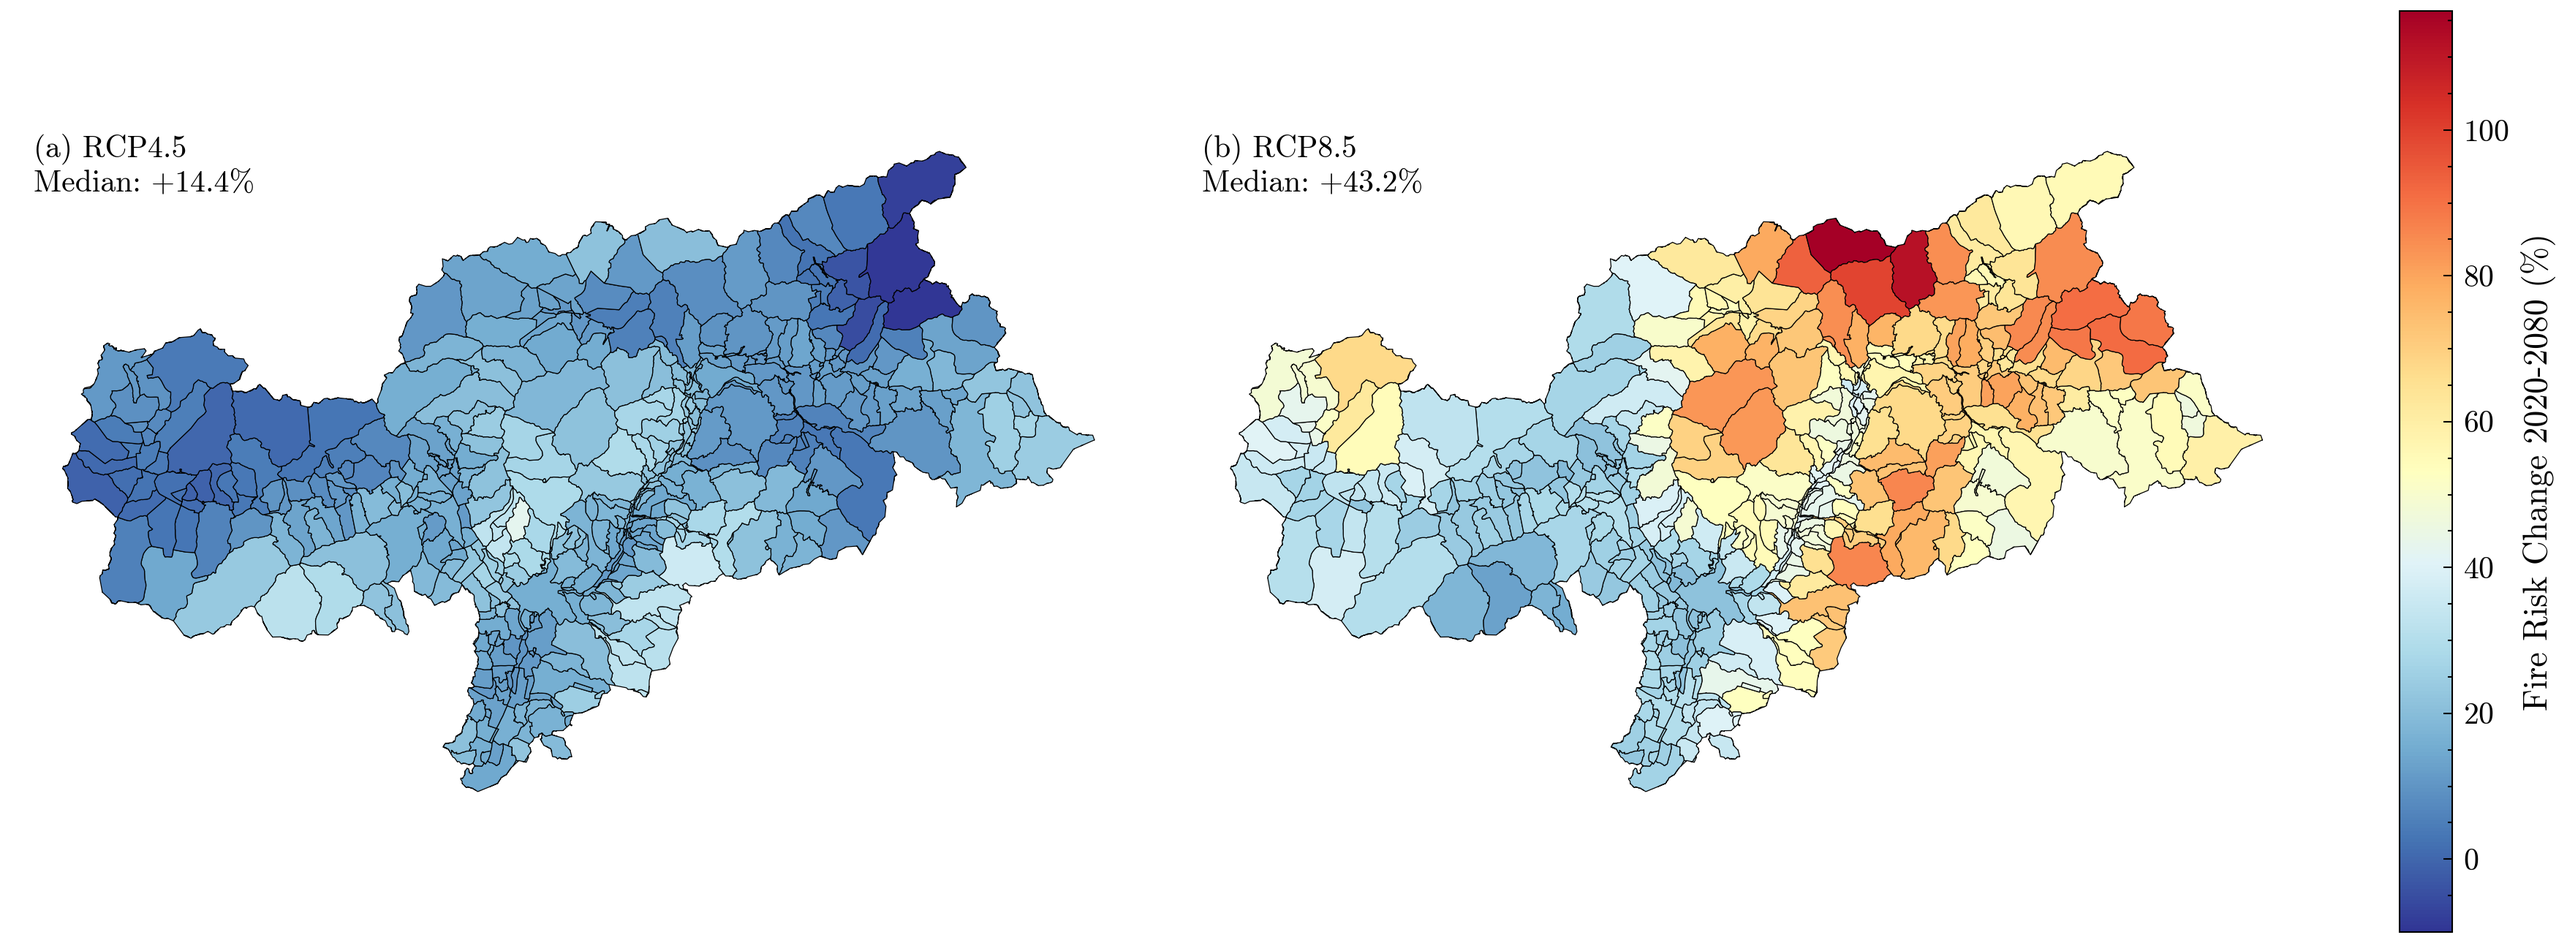
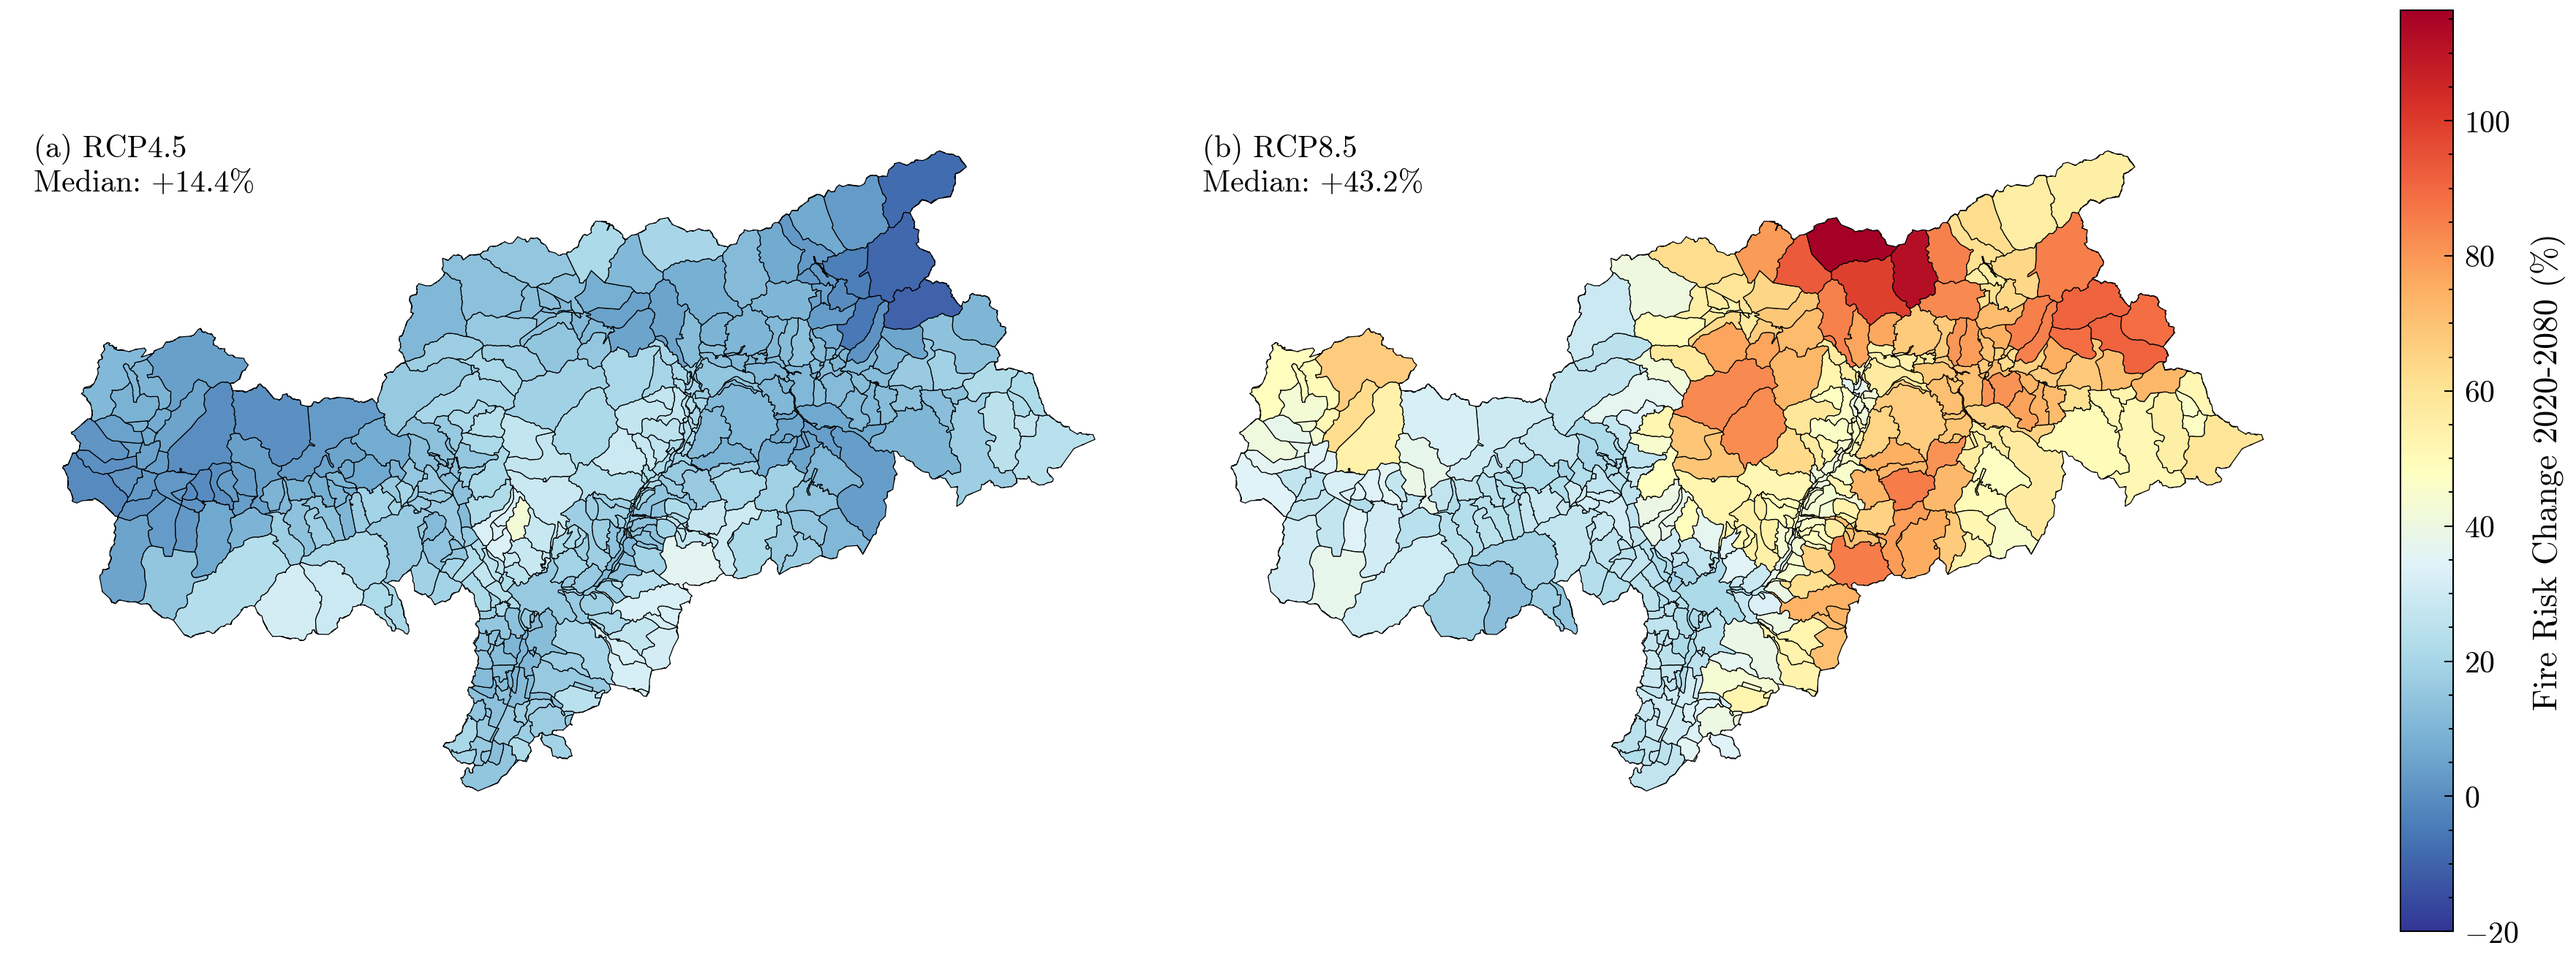
Allow negative values in climate risk change visualization
Updated color scale to properly display zones with decreasing fire risk.

Changes:
- Extended vmin from -10 to -20 (min(−20, data.min()))
- This allows proper visualization of 9 zones with negative risk changes
- Color scale now shows: -20% (dark blue) → 0% (white) → 116% (dark red)
- Fixed median label to handle negative values (removed hardcoded '+' sign)

Results:
- Zones with risk decreases now visible in blue (southwestern areas)
- Most zones show increases (blue → yellow → red gradient)
- Full range of climate impacts now represented
- Data min: -9.94%, max: +116.3%

The RdYlBu_r colormap properly shows:
- Blue: Risk decrease (cooling effect)
- White/Yellow: Minimal change
- Red: Risk increase (warming effect)

diff --git a/04_Zone_Climate_Projections/create_final_climate_figures.py b/04_Zone_Climate_Projections/create_final_climate_figures.py
@@ -409,6 +409,10 @@ for idx, scenario in enumerate(['RCP4.5', 'RCP8.5']):
         how='left'
     )
 
+    # Calculate symmetric scale or use data range
+    vmin_val = min(-20, df_delta['risk_change_pct'].min())
+    vmax_val = max(50, df_delta['risk_change_pct'].max())
+
     zones_plot.plot(
         column='risk_change_pct',
         ax=ax,
@@ -416,15 +420,16 @@ for idx, scenario in enumerate(['RCP4.5', 'RCP8.5']):
         edgecolor='black',
         linewidth=0.3,
         legend=False,
-        vmin=-10,
-        vmax=max(50, df_delta['risk_change_pct'].max()),
+        vmin=vmin_val,
+        vmax=vmax_val,
         missing_kwds={'color': 'lightgrey'}
     )
 
     median_change = df_subset['risk_change_pct'].median()
     # Add panel label with scenario and median info
     panel_label = chr(97 + idx)  # a, b
-    ax.text(0.02, 0.98, f'({panel_label}) {scenario}\nMedian: +{median_change:.1f}%',
+    sign = '+' if median_change >= 0 else ''
+    ax.text(0.02, 0.98, f'({panel_label}) {scenario}\nMedian: {sign}{median_change:.1f}%',
            transform=ax.transAxes, fontsize=10, fontweight='bold',
            va='top', ha='left', bbox=dict(boxstyle='round',
            facecolor='white', alpha=0.8, edgecolor='none'))
@@ -432,7 +437,7 @@ for idx, scenario in enumerate(['RCP4.5', 'RCP8.5']):
 
 sm = plt.cm.ScalarMappable(
     cmap='RdYlBu_r',
-    norm=plt.Normalize(vmin=-10, vmax=max(50, df_delta['risk_change_pct'].max()))
+    norm=plt.Normalize(vmin=vmin_val, vmax=vmax_val)
 )
 sm._A = []
 cbar_ax = fig.add_axes([0.92, 0.15, 0.02, 0.7])
